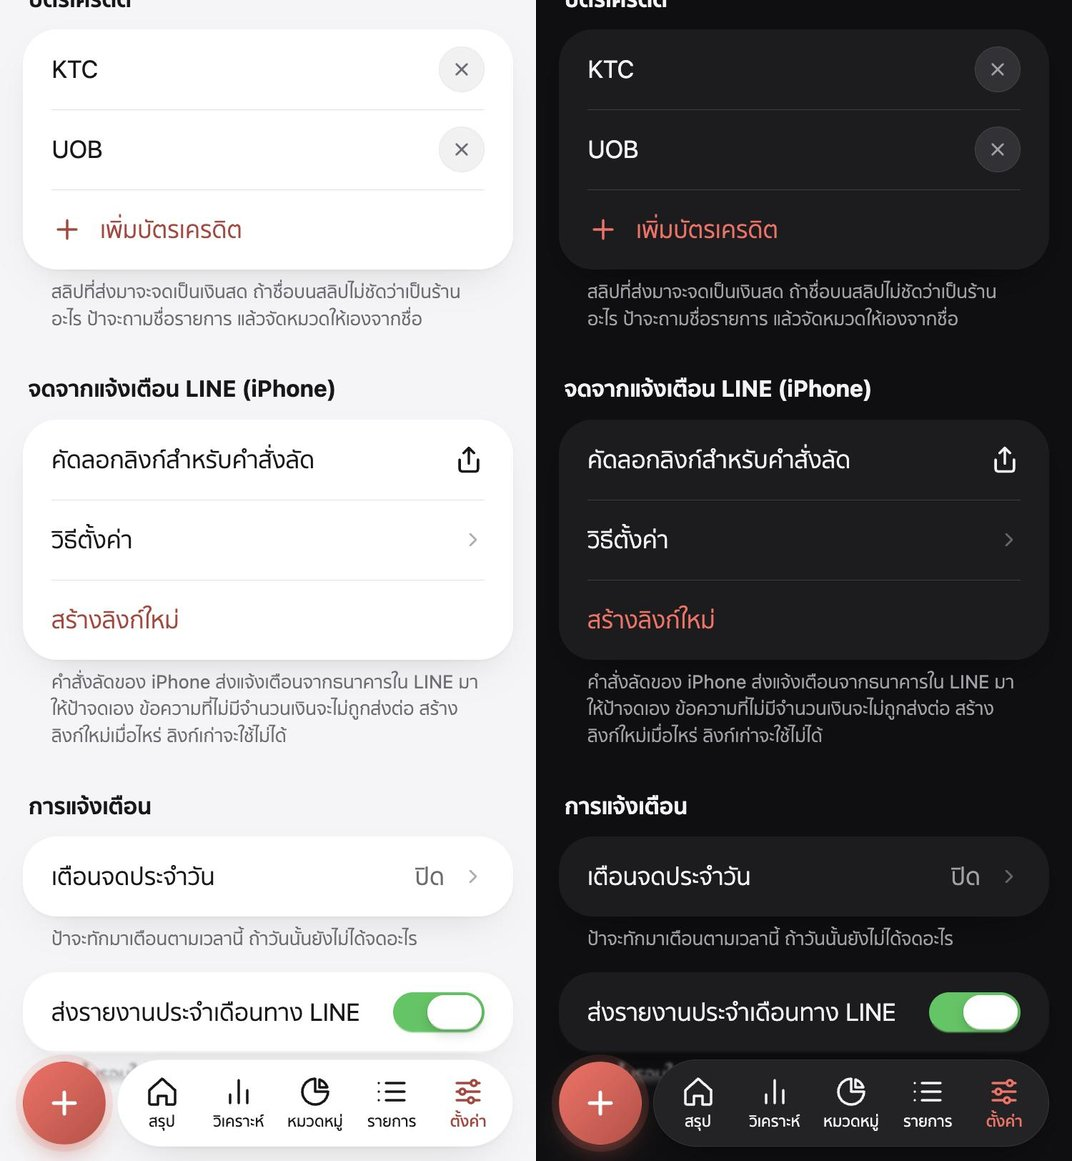
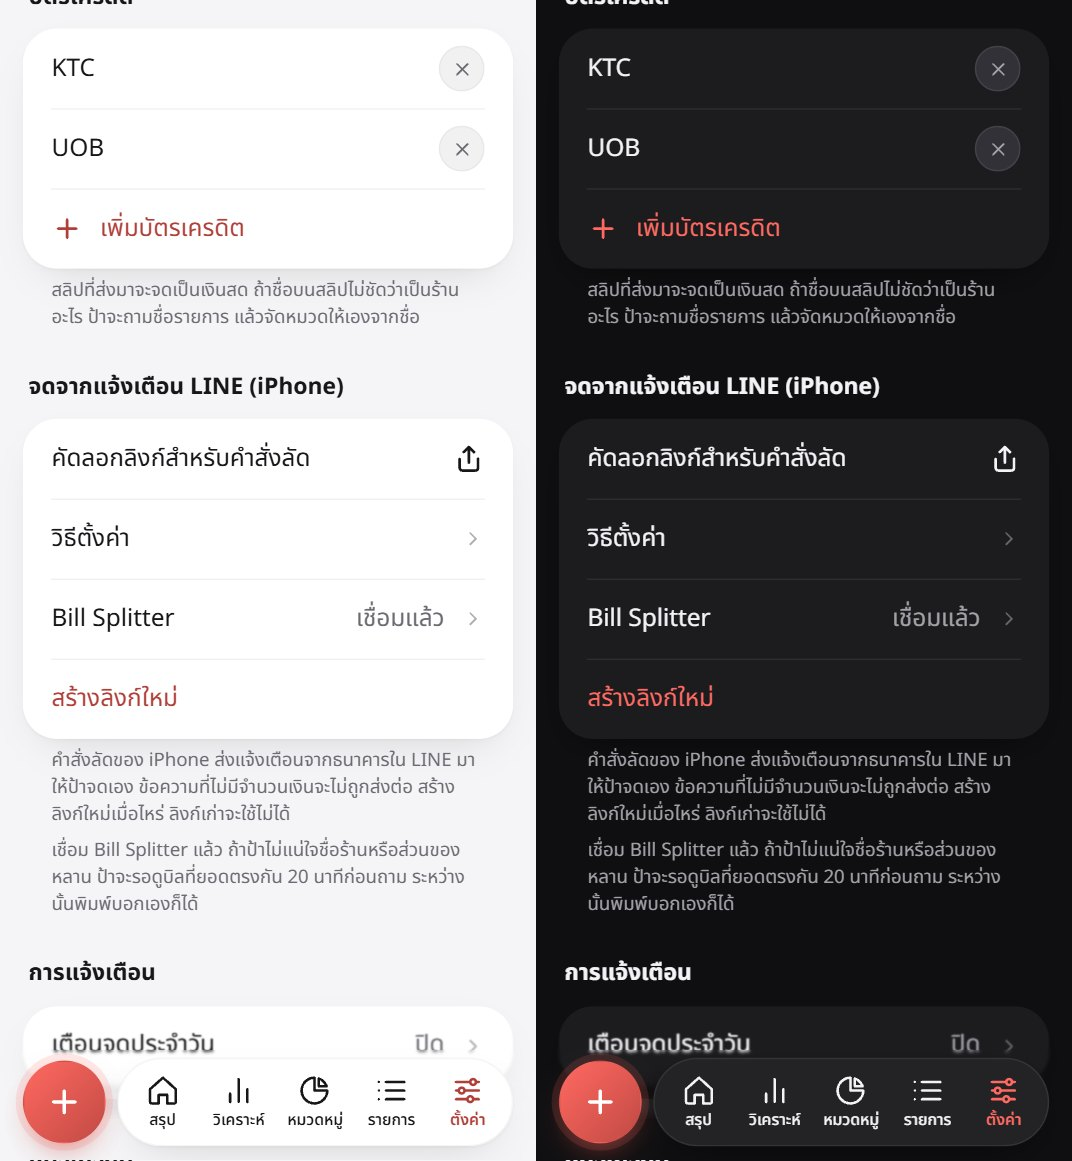
README: Bill Splitter, and the ตั้งค่า picture retaken with its row

diff --git a/README.md b/README.md
@@ -46,10 +46,10 @@ The hamsters are from [silly hamsters](https://store.line.me/stickershop/product
 - **Chat menu:** under the chat, จดรายการ opens a new entry in the web app, สรุปในแชต and วิธีใช้ answer in the chat, and the bar along the bottom opens each of the app's five tabs.
 - **Daily reminder:** a message at your chosen time on days with nothing recorded.
 - **Recurring entries:** daily, weekly or monthly, added automatically.
-- **Bank alerts in LINE, recorded by themselves (iPhone, iOS 27+):** a Shortcuts automation (set up from ตั้งค่า → วิธีตั้งค่า, an English step-by-step page with drawings of each Shortcuts screen) sends each LINE notification to `/api/notify` with the link from ตั้งค่า (one trigger per bank or card, LINE filtered by the account's title such as KBank or KTC, so other chats never leave the phone and iPhone doesn't announce a run for each of them; card alerts sent by SMS are another trigger, Messages filtered by the sender's title such as UOBT; each trigger also has a Message filter for its payment alerts' wording, so money-in and other alerts don't start it: จากบัญชี for KBank Live, บัตรเสริม for a KTC supplementary card, มีการใช้ for UOB; for a LINE trigger the word must be one the notification itself shows, a short summary, not the heading inside the bank's card in the chat, which never matches). KTC heads its card payments รายการเงินเข้า, which ป้าคีน still records as spending. Shops are recorded without their branch: YOSHINOYA(CHAMCHURI SQ is YOSHINOYA). Text without an amount of money stops there and is not kept; the rest goes to Gemini, which records money spent (a bank, card or wallet payment, transfer out or top-up) and ignores chats, promotions, OTPs and declined payments. Money received isn't recorded either; the Shortcut's notification just says "เงินเข้า ฿500". ป้าคีน then asks in LINE, one question at a time and only when needed: what it was, when the payee isn't clearly a shop (a code, a person, an unknown name); how much was yours, for a payment over ฿500 (buttons for all of it or split 2, 3 or 4 ways, or type an amount), since it may have covered friends too; and which category, when it would otherwise land in อื่นๆ. Each question has a card of its own, so they can't be taken for one another: a coloured badge and a title saying what is asked (🏪 ชื่อร้านไม่ชัด with the name as shown, ✏ ค่าอะไรจ๊ะ? when there is no name, 👥 แบ่งจ่ายไหม? with the full amount large, 🏷 หมวดไหนดี? with the entry as it is in อื่นๆ), and the alert or slip it is about, with its time. The category normally comes from the last entry with the same payee when category memory is on, otherwise from the model's guess, so an answer is remembered for that payee next time. These questions are push messages, so they count toward the official account's monthly limit. A card's void alert removes the matching payment, and a payment already recorded (the same amount and name within 2 hours, such as its slip and then its alert) isn't added twice. The Shortcut shows what was recorded as a notification, so it uses none of the LINE message quota.
+- **Bank alerts in LINE, recorded by themselves (iPhone, iOS 27+):** a Shortcuts automation (set up from ตั้งค่า → วิธีตั้งค่า, an English step-by-step page with drawings of each Shortcuts screen) sends each LINE notification to `/api/notify` with the link from ตั้งค่า (one trigger per bank or card, LINE filtered by the account's title such as KBank or KTC, so other chats never leave the phone and iPhone doesn't announce a run for each of them; card alerts sent by SMS are another trigger, Messages filtered by the sender's title such as UOBT; each trigger also has a Message filter for its payment alerts' wording, so money-in and other alerts don't start it: จากบัญชี for KBank Live, บัตรเสริม for a KTC supplementary card, มีการใช้ for UOB; for a LINE trigger the word must be one the notification itself shows, a short summary, not the heading inside the bank's card in the chat, which never matches). KTC heads its card payments รายการเงินเข้า, which ป้าคีน still records as spending. Shops are recorded without their branch: YOSHINOYA(CHAMCHURI SQ is YOSHINOYA). Text without an amount of money stops there and is not kept; the rest goes to Gemini, which records money spent (a bank, card or wallet payment, transfer out or top-up) and ignores chats, promotions, OTPs and declined payments. Money received isn't recorded either; the Shortcut's notification just says "เงินเข้า ฿500". ป้าคีน then asks in LINE, one question at a time and only when needed: what it was, when the payee isn't clearly a shop (a code, a person, an unknown name); how much was yours, for a payment over ฿500 (buttons for all of it or split 2, 3 or 4 ways, or type an amount), since it may have covered friends too; and which category, when it would otherwise land in อื่นๆ. Each question has a card of its own, so they can't be taken for one another: a coloured badge and a title saying what is asked (🏪 ชื่อร้านไม่ชัด with the name as shown, ✏ ค่าอะไรจ๊ะ? when there is no name, 👥 แบ่งจ่ายไหม? with the full amount large, 🏷 หมวดไหนดี? with the entry as it is in อื่นๆ), and the alert or slip it is about, with its time. The category normally comes from the last entry with the same payee when category memory is on, otherwise from the model's guess, so an answer is remembered for that payee next time. With **Bill Splitter** connected (ตั้งค่า → Bill Splitter, the private link from [Bill Splitter](https://github.com/IsaraApae/billsplitter-th)'s Me page; step 5 of วิธีตั้งค่า shows both screens), an alert whose shop name or share would be asked about is first matched to the bill split there for it: the same amount paid at the shop (to ฿1), made in the last 3 hours and not matched before. The bill gives the entry its name and your own share, the category comes from the bill's name and items (asked if still unsure), and the saved card จดรายจ่ายแล้ว arrives in LINE. With no bill yet, ป้าคีน waits up to 20 minutes, checking on each scheduled run, then asks as usual; the Shortcut says it is waiting. Meanwhile the question is open, so typing the name (or the share) answers it and ends the wait, while a new entry such as "กาแฟ 60" is still recorded as one. These questions are push messages, so they count toward the official account's monthly limit. A card's void alert removes the matching payment, and a payment already recorded (the same amount and name within 2 hours, such as its slip and then its alert) isn't added twice. The Shortcut shows what was recorded as a notification, so it uses none of the LINE message quota.
 
 <p>
-  <img src="docs/notify.jpg" width="400" alt="จดจากแจ้งเตือน LINE in ตั้งค่า, light and dark">
+  <img src="docs/notify.jpg" width="400" alt="จดจากแจ้งเตือน LINE in ตั้งค่า, with Bill Splitter เชื่อมแล้ว, light and dark">
   <img src="docs/line-questions.jpg" width="200" alt="The four questions in LINE: ชื่อร้านไม่ชัด, หมวดไหนดี?, ค่าอะไรจ๊ะ? and แบ่งจ่ายไหม?">
 </p>
 
@@ -113,6 +113,7 @@ Needs Node.js 20 or newer.
 | `APP_ORIGIN` | variable | `wrangler.toml` | the worker's own address, for the scheduled job, which has no request to read it from |
 | `GEMINI_MODEL` | variable | `wrangler.toml` | models tried in order for slips, voice notes and PDFs |
 | `GEMINI_FAST_MODEL` | variable | `wrangler.toml` | models tried in order for typed messages |
+| `BILLS_ORIGIN`, `BILL_WAIT_MS` | optional | `wrangler.toml` or `.dev.vars` | where Bill Splitter links may point (default `https://billsplitter-th.vercel.app`) and how long to wait for a bill (default 20 minutes); `test.mjs` sets both |
 | `LINE_API`, `LINE_DATA_API`, `GEMINI_API` | optional | `.dev.vars` | send those calls to a mock instead of the real APIs; `test.mjs` uses them |
 
 ## Run your own
